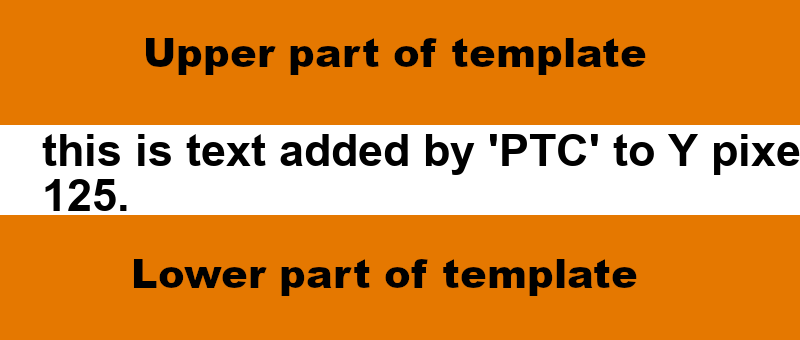
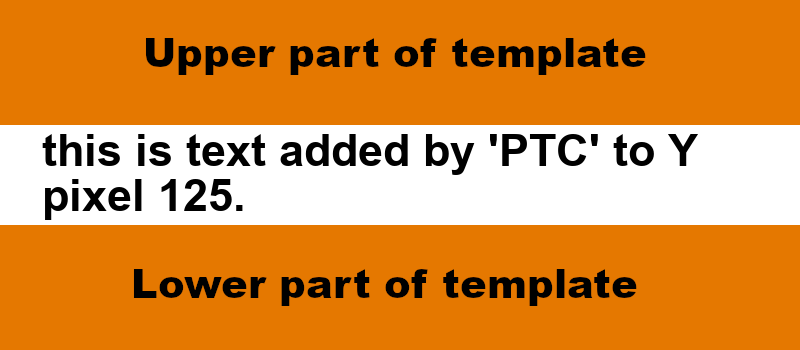
Release 0.3.0, and updated README

diff --git a/src/PictureTextCreator/PTC.py b/src/PictureTextCreator/PTC.py
@@ -1,9 +1,11 @@
 from PIL import Image, ImageFont, ImageDraw
 import textwrap
 
-def GetPictureWithText(templatePath, textCordinate, textToAdd , fontPath, outputPath, textColor = (0,0,0), backgroundColor = (255,255,255), fontSize = 45, textWrapValue = 39):
+def GetPictureWithText(templatePath, textCordinate, textToAdd , fontPath, outputPath, textColor = (0,0,0), backgroundColor = (255,255,255), fontSize = 45, textWrapValue = 39, leftSideMargin = 42):
 
     TEXTSIZE = fontSize
+    BOTTOMPADDING = 10 #pixels
+    
 
     templateTopImg = Image.open(templatePath)
     templateBotImg = Image.open(templatePath)
@@ -16,21 +18,21 @@ def GetPictureWithText(templatePath, textCordinate, textToAdd , fontPath, output
     #final image height = top template height + bot template height + textsize * lines
     topImgWidth, topImgHeight = templateTopImg.size
     botImgWidth, botImgHeight = templateBotImg.size
-    finalImageHeight = (TEXTSIZE * len(textLines)) + topImgHeight + botImgHeight
+    finalImageHeight = (TEXTSIZE * len(textLines)) + topImgHeight + botImgHeight + BOTTOMPADDING 
 
     finalImage = Image.new("RGBA",(topImgWidth, finalImageHeight))
 
     editImage = ImageDraw.Draw(finalImage)
-    editImage.rectangle([(0,topImgHeight),(topImgWidth,topImgHeight + (TEXTSIZE * len(textLines)))],fill=backgroundColor)
+    editImage.rectangle([(0,topImgHeight),(topImgWidth,topImgHeight + (TEXTSIZE * len(textLines)) + BOTTOMPADDING)],fill=backgroundColor)
     index = 0
     for line in textLines:
         imageText = ImageFont.truetype(fontPath,TEXTSIZE)
-        editImage.text((42, topImgHeight + (index * TEXTSIZE)),line, textColor ,imageText)
+        editImage.text((leftSideMargin, topImgHeight + (index * TEXTSIZE)),line, textColor ,imageText)
         index += 1
 
 
     finalImage.paste(templateTopImg,(0,0))
-    finalImage.paste(templateBotImg,(0, finalImageHeight - botImgHeight))
+    finalImage.paste(templateBotImg,(0, ((finalImageHeight - botImgHeight))))
     finalImage.save(outputPath)
 
 

diff --git a/example/BasicExample.py b/example/BasicExample.py
@@ -3,4 +3,10 @@ from PictureTextCreator import GetPictureWithText
 exampleText = "this is text added by 'PTC' to Y pixel 125."
 outputPath = "./output.png"
 exampleFontPath = "./Arial-BD.ttf" 
-GetPictureWithText("./exampleTemplate.png",125,exampleText,exampleFontPath,outputPath)
+wrapValue = 35
+GetPictureWithText("./exampleTemplate.png", 125, exampleText, exampleFontPath, outputPath, textWrapValue=wrapValue)
+
+outputPath2 = "output with all values.png"
+exampleText2 = "this text was added with 'PTC' to Y pixel 125, with leftSideMargin as 10, so this text is 10 pixels away from left side"
+
+GetPictureWithText("./exampleTemplate.png", 125, exampleText2, exampleFontPath, outputPath2, textWrapValue=wrapValue, leftSideMargin=10)

diff --git a/src/setup.py b/src/setup.py
@@ -2,7 +2,7 @@ from setuptools import setup, find_packages
 
 setup(
     name="PictureTextCreator",
-    version="0.2.1",
+    version="0.3.0",
     packages=find_packages(),
     install_requires=[
         "pillow",

diff --git a/README.md b/README.md
@@ -5,8 +5,62 @@ This project uses pillow and textwrap.
 # how to install 
 
 ```
-pip install PictureTextCreator==0.2.1
+pip install PictureTextCreator==0.3.0
 ```
+
+## Arguments
+
+### templatePath
+
+path to the template picture
+
+### textCordinate
+
+at what pixel height (top to bottom) the text will be inserted
+
+### textToAdd 
+
+The text that gets inserted to the final image
+
+### fontPath
+
+Path to some ```.tff``` font file
+
+### outputPath
+
+Path where the final image will be saved. 
+
+**note** outputPath must contain the image format extension, for example ```.png```
+
+### textColor
+
+Color of the text that will be inserted. Should be given as RGB tuple. 
+
+By default this has a value of (0,0,0)
+
+### backgroundColor
+
+Color behind the  inseted text. Should be given the same way as ```textColor```.
+
+By default this has a value of (255,255,255)
+
+### fontSize
+
+Size of the font.
+
+By default this has a value of 45
+
+### textWrapValue 
+
+This value changes when text "wraps"/starts a new row based on the character count. For more info https://docs.python.org/3/library/textwrap.html.
+
+By default this has a value of 39
+
+### leftSideMargin
+
+This value determines many pixels away the text will be inserted from the left side.
+
+By default this has a value of 42
 
 # Example
 
